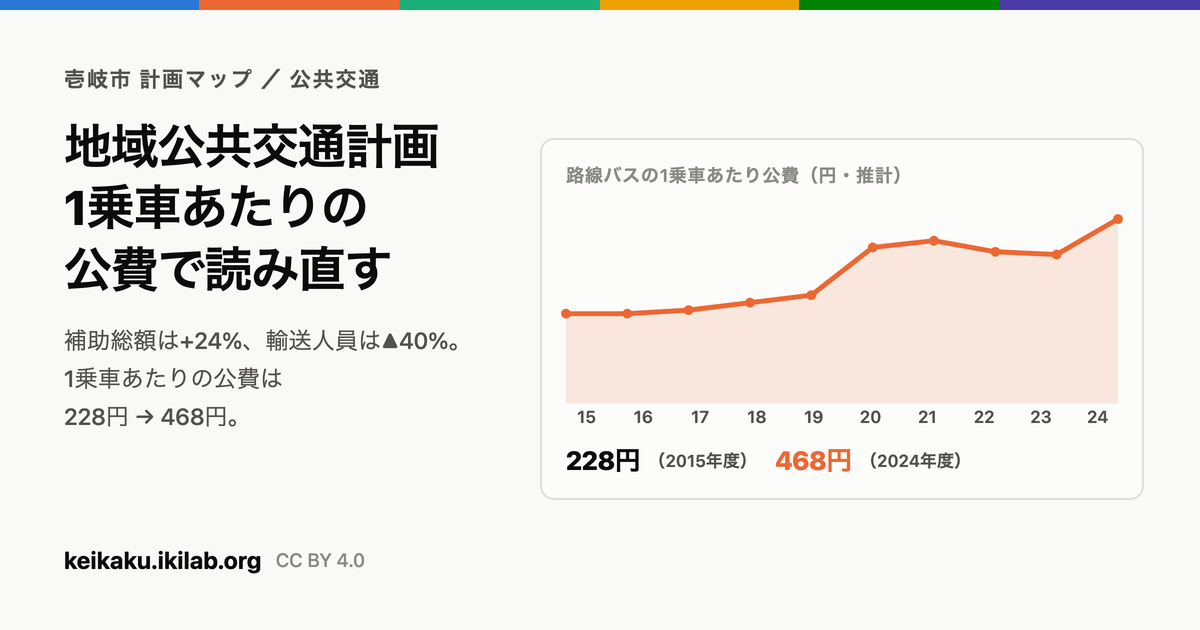
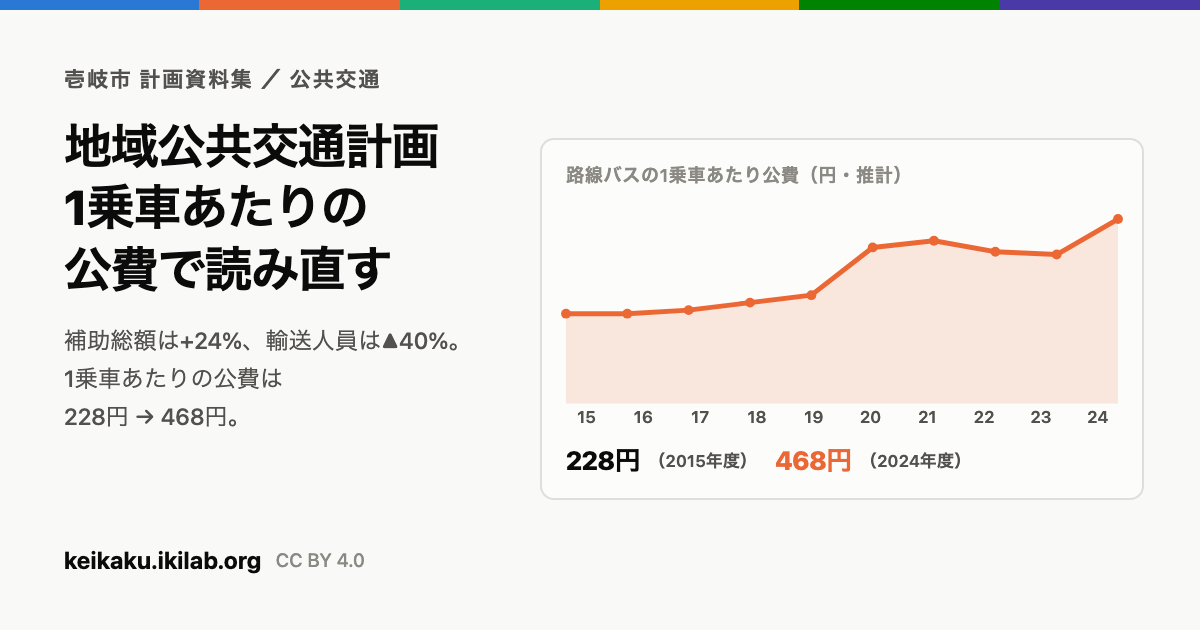
OGP画像を新しいサイト名で作り直す
cards.html のハブカードを「壱岐市 計画資料集」にし、リード文も
マップとノートの2本立ての説明に差し替えて、4枚を再生成した。

diff --git a/tools/og/cards.html b/tools/og/cards.html
@@ -78,8 +78,8 @@ body{background:#555;padding:24px;display:flex;flex-direction:column;gap:24px;al
   <div class="L">
     <div>
       <div class="eyebrow">IKILAB ／ 長崎県壱岐市</div>
-      <div class="ttl">壱岐市<br>計画マップ</div>
-      <div class="lead">行政計画どうしの関係を図にして、<br>個別の計画を深掘りできる資料集。<br>出典はすべて明示。</div>
+      <div class="ttl">壱岐市<br>計画資料集</div>
+      <div class="lead">全件を並べたマップと、<br>分野ごとに掘り下げたノート。<br>出典はすべて明示。</div>
     </div>
     <div class="foot"><span class="dom">keikaku.ikilab.org</span><span class="by">CC BY 4.0</span></div>
   </div>
@@ -100,11 +100,11 @@ body{background:#555;padding:24px;display:flex;flex-direction:column;gap:24px;al
   </div>
 </div>
 
-<!-- =============== 福祉分野マップ =============== -->
+<!-- =============== 福祉のノート =============== -->
 <div class="card" id="og-fukushi">
   <div class="L">
     <div>
-      <div class="eyebrow">壱岐市 計画マップ ／ 福祉分野</div>
+      <div class="eyebrow">壱岐市 計画資料集 ／ 福祉分野</div>
       <div class="ttl sm">地域福祉計画と<br>関連計画の<br>体系整理</div>
       <div class="lead">国・県・市の階層／計画期間／<br>根拠法・所管課・改定時期</div>
     </div>
@@ -132,7 +132,7 @@ body{background:#555;padding:24px;display:flex;flex-direction:column;gap:24px;al
 <div class="card" id="og-kaigo">
   <div class="L">
     <div>
-      <div class="eyebrow">壱岐市 計画マップ ／ 介護保険</div>
+      <div class="eyebrow">壱岐市 計画資料集 ／ 介護保険</div>
       <div class="ttl sm">介護保険事業計画<br>第7期・第8期の検証</div>
       <div class="lead">前提 → 計画 → 実施 → 成果。<br>計画値と、決算・統計に表れた<br>実績の突合。</div>
     </div>
@@ -162,7 +162,7 @@ body{background:#555;padding:24px;display:flex;flex-direction:column;gap:24px;al
 <div class="card" id="og-koutsuu">
   <div class="L">
     <div>
-      <div class="eyebrow">壱岐市 計画マップ ／ 公共交通</div>
+      <div class="eyebrow">壱岐市 計画資料集 ／ 公共交通</div>
       <div class="ttl sm">地域公共交通計画<br>1乗車あたりの<br>公費で読み直す</div>
       <div class="lead">補助総額は+24%、輸送人員は▲40%。<br>1乗車あたりの公費は<br>228円 → 468円。</div>
     </div>
